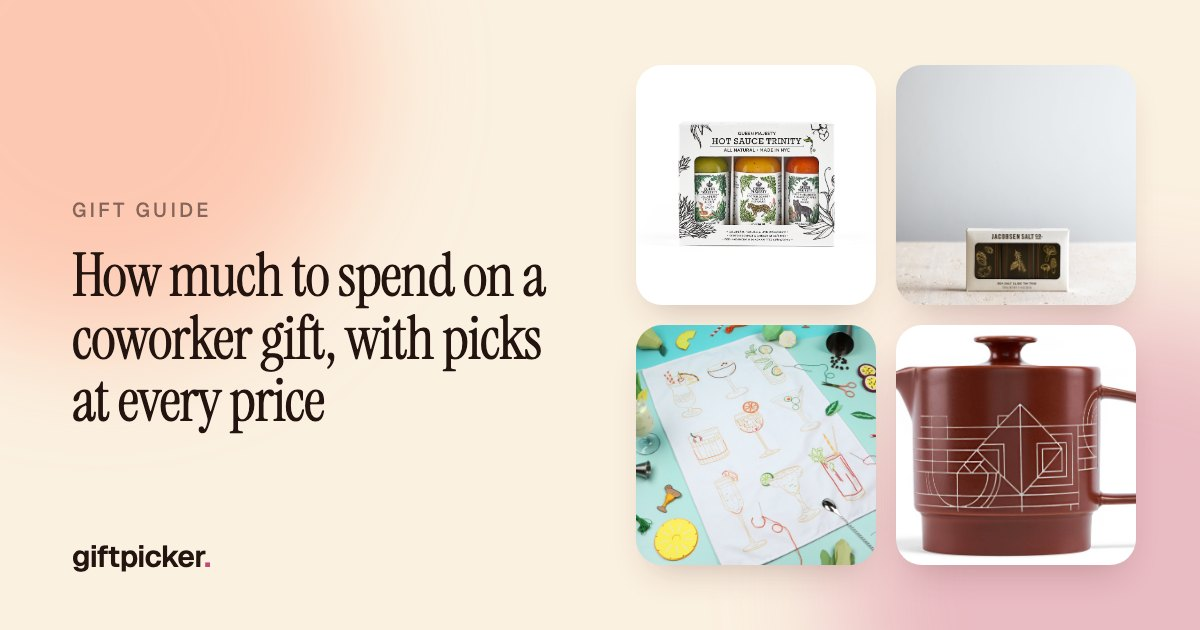
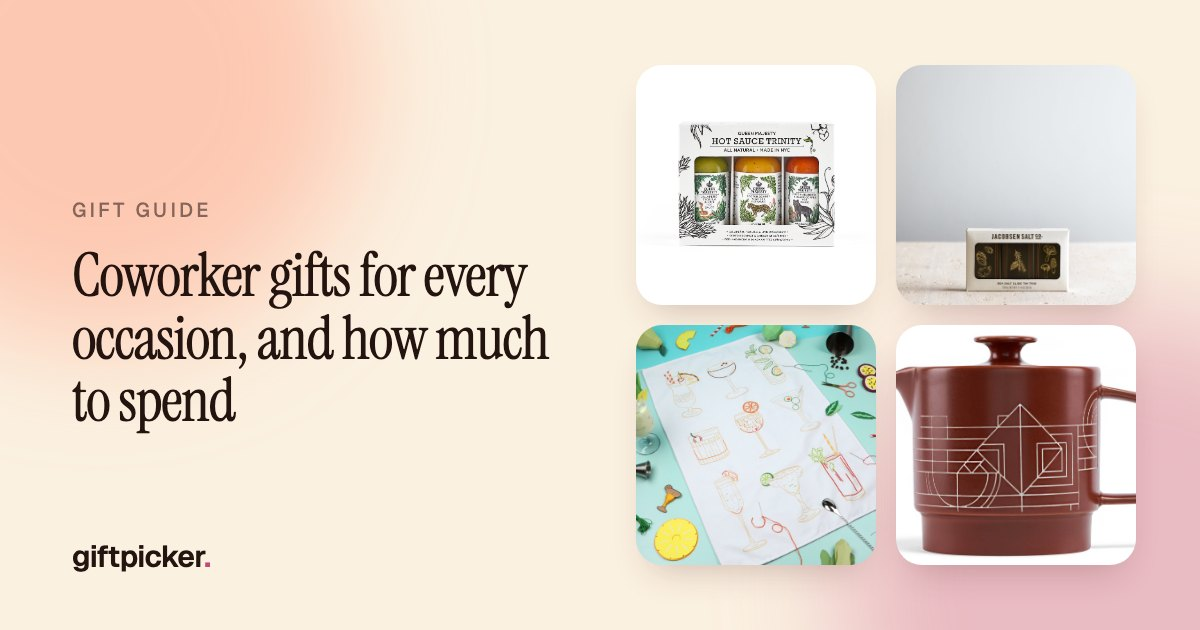
Blog (branch, not shipped): Baby shower gifts for a coworker (from Presently's 18 best baby shower gifts post, by budget, with office shower ideas) and Holiday gifts for kids by age (from Presently's kids' holiday and fall posts); the coworker post folds in Presently's 27 gifts by occasion as an occ

Changed region(s): [[0.0617, 0.3921, 0.4625, 0.6937]]

diff --git a/src/data/posts.ts b/src/data/posts.ts
@@ -88,7 +88,19 @@ export function formatPostDate(iso: string): string {
  * reports these as pending, says when one has gone live (then delete its entry
  * here), and fails if she rejects one, so its sentence can be rewritten.
  */
-export const PENDING_GIFTS: Record<string, { name: string; presentlySource: string }> = {};
+export const PENDING_GIFTS: Record<string, { name: string; presentlySource: string }> = {
+  r1153: { name: "Razor A Kick Scooter", presentlySource: "gap-fill round 10/24 (kids' active)" },
+  r1156: { name: "Penny 22-Inch Board", presentlySource: "gap-fill round 10/24 (kids' active)" },
+  r1159: { name: "Fjällräven Kånken Classic Backpack", presentlySource: "gap-fill round 10/24 (kids' active)" },
+  r1162: { name: "Dog Man: The Supa Epic Collection", presentlySource: "gap-fill round 10/24 (kids' books)" },
+  r1163: { name: "The Wild Robot Hardcover Boxed Set", presentlySource: "gap-fill round 10/24 (kids' books)" },
+  r1164: { name: "Harry Potter and the Sorcerer's Stone: The Illustrated Edition", presentlySource: "gap-fill round 10/24 (kids' books)" },
+  r1167: { name: "Melissa & Doug Countdown to Christmas Wooden Advent Calendar", presentlySource: "gap-fill round 10/24 (kids' seasonal)" },
+  r1168: { name: "Where's Waldo? Advent Calendar", presentlySource: "gap-fill round 10/24 (kids' seasonal)" },
+  r1169: { name: "Super Smalls Hanukkah Activity Set", presentlySource: "gap-fill round 10/24 (kids' seasonal)" },
+  r1170: { name: "Tubelox Deluxe 220-Piece Set", presentlySource: "group-gifts-for-kids-this-holiday-season" },
+  r1171: { name: "Yamaha GigMaker Deluxe Acoustic Guitar Package", presentlySource: "group-gifts-for-kids-this-fall" },
+};
 
 export function isPendingGift(id: string): boolean {
   return Object.prototype.hasOwnProperty.call(PENDING_GIFTS, id);
@@ -155,6 +167,229 @@ export function postGiftIds(post: Post): string[] {
 const REVISED = "2026-10-18";
 
 const ALL_POSTS: Post[] = [
+  {
+    slug: "baby-shower-gifts-for-a-coworker",
+    title: "Baby shower gifts for a coworker, at every budget",
+    metaTitle: "Baby shower gifts for a coworker · GiftPicker",
+    description:
+      "Baby shower gifts for a coworker at every budget, from a small gift from you to a gift from the whole team, plus ideas for planning an office baby shower.",
+    related: ["how-much-to-spend-on-a-coworker-gift", "holiday-gifts-for-kids-by-age", "how-to-choose-a-gift-by-love-language"],
+    published: "2026-10-25",
+    intro: [
+      "A coworker's baby shower is one of the happiest things an office gets to celebrate. The tricky part is choosing a gift that suits a work friendship and that new parents will use, since they are about to be short on sleep, time, and free hands.",
+      "This guide is organized by budget, starting with gifts you can give on your own and ending with bigger ones the whole team can go in on. It works whether you are bringing a gift to the shower or sending a baby gift after the birth, and the last sections cover planning the shower itself.",
+    ],
+    body: [
+      { kind: "h2", text: "How much to spend on a coworker's baby shower gift" },
+      {
+        kind: "p",
+        text: "Check the registry first. Most expecting parents have one, and a registry gift is one you know they want. Ask whoever is hosting the shower for the link, or search the parent's name on Babylist, Amazon, or Target. If you shop off the registry, these ranges keep most offices comfortable:",
+      },
+      {
+        kind: "list",
+        items: [
+          "From you alone: $25 to $50.",
+          "From a few coworkers together: $50 to $150.",
+          "From the whole team: $150 and up, often for one of the bigger registry items nobody wants to buy alone.",
+        ],
+      },
+      {
+        kind: "p",
+        text: "To see which tier your group lands in, multiply: eight coworkers at $15 to $20 each comes to $120 to $160. When you organize a collection, suggest an amount per person, collect it through a payment app or a shared card, and make it clear that any contribution, including none, is welcome.",
+      },
+
+      { kind: "h2", text: "Under $50: a gift from you" },
+      {
+        kind: "p",
+        text: "A small gift is plenty when the parents can use it in the first weeks, or when it starts the baby's bookshelf. If the shower is only days away, choose a pick that ships quickly, or tuck a gift card into a signed card.",
+      },
+      {
+        kind: "p",
+        text: "The [Hello, World! board books](gift:r821) introduce birds, bugs, dinosaurs, and the solar system with bright art and simple first facts, and the [Goodnight Little Me personalized book](gift:r736) puts the baby's name on the cover and throughout a bedtime story. Order the book only if the parents have shared the name, and allow time for printing.",
+      },
+      { kind: "gifts", ids: ["r821", "r736"] },
+      {
+        kind: "p",
+        text: "Sophie la Girafe's [teether](gift:r292) has been a favorite first toy since 1961. She is made from natural rubber, sized for small hands, and squeaks when squeezed. Crate & Kids' [Monthly Milestone Mat](gift:r196) is a cotton canvas backdrop with an adjustable date, made for the month-by-month photos most new parents love to take.",
+      },
+      { kind: "gifts", ids: ["r292", "r196"] },
+
+      { kind: "h2", text: "$50 to $150: a gift from a few coworkers" },
+      {
+        kind: "p",
+        text: "Pooling money with a few colleagues opens up the gear parents rely on every day.",
+      },
+      {
+        kind: "p",
+        text: "Solly Baby's [Wrap Carrier](gift:r554) is a light, stretchy wrap that keeps a newborn close while leaving the parent's hands free. Hatch's [sound machine and night light](gift:r250) plays white noise, glows softly for night feedings, and later works as a time-to-rise clock for toddlers, all controlled from an app. Savor's [Baby Deluxe Keepsake Box](gift:r611) has labeled, acid-free files and drawers for a baby's mementos from birth to age four.",
+      },
+      { kind: "gifts", ids: ["r554", "r250", "r611"] },
+      {
+        kind: "p",
+        text: "Cooking is often the first thing to go with a newborn, so an [Uber Eats gift card](gift:r135) covers takeout on the nights nobody has time to cook. A DoorDash card does the same job.",
+      },
+      { kind: "gifts", ids: ["r135"] },
+
+      { kind: "h2", text: "$150 and up: a gift from the whole team" },
+      {
+        kind: "p",
+        text: "With the whole office chipping in, you can cover one of the bigger items, or something that keeps arriving for months.",
+      },
+      {
+        kind: "p",
+        text: "Coterie's [diaper and wipes gift subscription](gift:r595) sends monthly deliveries for 2 to 12 months, and the parents choose the size when they redeem it. Upon a Box's [Baby Book Library](gift:r39) is a set of classic and bestselling board books to read together from the first weeks. Lovevery's [Play Gym](gift:r237) is an activity gym and play mat designed by child development experts for tummy time and the whole first year. Indi's [diaper backpack](gift:r147) looks like an everyday backpack and holds everything a parent needs to leave the house with a baby.",
+      },
+      { kind: "gifts", ids: ["r595", "r39", "r237", "r147"] },
+      {
+        kind: "p",
+        text: "New parents rarely get time to themselves, so a gift just for them is welcome too. A Spafinder gift card works at spas across the country and gives the parent-to-be a few hours off, now or after the baby arrives. If the team knows them well, RENPHO's [shiatsu foot massager](gift:r372) gives tired feet a deep-kneading massage with heat, without leaving the couch.",
+      },
+      { kind: "gifts", ids: ["r372"] },
+
+      { kind: "h2", text: "Office baby shower ideas" },
+      {
+        kind: "list",
+        items: [
+          "Ask the parent-to-be first. Some people would rather not have a party at work, and a card and a group gift are a good alternative.",
+          "Pick a time a few weeks before their leave starts, when they still feel up for a party. Lunch or an afternoon break in a conference room works well.",
+          "Keep it short. Half an hour with cake and a card is plenty for most people.",
+          "Pass a card around, and invite remote teammates to sign a digital card or join by video.",
+          "Choose one group gift. A single present from everyone is easier to carry home than a pile of small ones.",
+          "Plan for after the baby arrives. A meal delivery gift card, or a meal train the team signs up for, is often the most welcome help in the first weeks at home.",
+        ],
+      },
+
+      { kind: "h2", text: "Giving in the baby's honor" },
+      {
+        kind: "p",
+        text: "If the parents would rather not receive more things, the team can donate in the baby's honor instead. A [TisBest Charity Gift Card](gift:r769) lets the parents give to any of about 1.8 million US charities, including March of Dimes and Every Mother Counts, which work for healthy pregnancies and safe births. Send it with a card the whole team signs.",
+      },
+      { kind: "gifts", ids: ["r769"] },
+    ],
+    cta: "Shopping for a different coworker or occasion? Tell the quiz who it's for and your budget, and it will rank gifts from our catalog.",
+  },
+
+  {
+    slug: "holiday-gifts-for-kids-by-age",
+    title: "Holiday gifts for kids, from toddlers to teens",
+    metaTitle: "Holiday gifts for kids by age · GiftPicker",
+    description:
+      "Holiday gifts for kids from toddlers to teens, sorted by age: toys, books, craft kits, games, and gear they keep using. Most work for fall birthdays too.",
+    related: ["gifts-for-your-brother-or-sister", "baby-shower-gifts-for-a-coworker", "how-to-choose-a-gift-by-love-language"],
+    published: "2026-10-25",
+    intro: [
+      "The best gifts for kids hold their attention well past the morning they open them. That means something different at every age, from a toy a toddler can push and bang on to a project a ten-year-old can finish on their own.",
+      "This guide is sorted by age, and we chose each pick for how well it fits that age and how long it holds up. Most work just as well for a fall birthday, and the bigger ones make good group gifts when a few relatives want to chip in.",
+    ],
+    body: [
+      { kind: "h2", text: "How to choose a gift for a child" },
+      {
+        kind: "list",
+        items: [
+          "Go by the age on the box. Age ratings help, since a gift that is too advanced often goes unused.",
+          "Ask the parents about space and noise. A drum set or a play kitchen is a big commitment in a small apartment.",
+          "Look for gifts that last: building sets, craft kits, and books with sequels keep kids busy for weeks.",
+          "For a bigger gift, pool money with grandparents, aunts, uncles, or family friends, so one well-made gift can replace several small ones.",
+          "Twins and close siblings can share a big gift like a building set, but each will want something of their own to open too.",
+          "Order by early December. Popular toys sell out, and deliveries slow down in the last weeks before the holidays.",
+        ],
+      },
+
+      { kind: "h2", text: "Babies and toddlers, 6 months to 3 years" },
+      {
+        kind: "p",
+        text: "Little ones learn with their hands and bodies, so look for toys they can climb, push, and bang on.",
+      },
+      {
+        kind: "p",
+        text: "Lovevery's [Play Kits](gift:r550) are boxes of toys made for a child's exact stage. You can prepay one to three kits, and each one is matched to the child's age when the parents activate it, so new toys arrive as the child grows.",
+      },
+      {
+        kind: "p",
+        text: "Hape's [Pound & Tap Bench](gift:r824) sends balls rolling over xylophone keys when a toddler hammers them through, and the xylophone slides out to play on its own. HABA's [First Orchard](gift:r716) is a first board game for ages 2 and up, where everyone works together to pick the chunky wooden fruit before the raven arrives.",
+      },
+      { kind: "gifts", ids: ["r550", "r824", "r716"] },
+
+      { kind: "h2", text: "Ages 3 to 5" },
+      {
+        kind: "p",
+        text: "Preschoolers love to pretend and to build, and a gift that does either gets plenty of use.",
+      },
+      {
+        kind: "p",
+        text: "Melissa & Doug's [Scoop and Serve Ice Cream Counter](gift:r907) comes with eight scoops, toppings, cones, and play money, and the counter stores every piece afterward. A [Magna-Tiles Classic 32-Piece Set](gift:r551) snaps together into towers, houses, and ramps, and its translucent tiles let the light through. For quiet time, the [Toniebox 2](gift:r549) plays songs and stories when a child sets a character figure on top, with no screen, and it comes with one figure to start.",
+      },
+      { kind: "gifts", ids: ["r907", "r551", "r549"] },
+
+      { kind: "h2", text: "Ages 6 to 8" },
+      {
+        kind: "p",
+        text: "Kids this age can follow instructions on their own, which opens up building kits, board games, and scooters.",
+      },
+      {
+        kind: "p",
+        text: "Tubelox's [Deluxe 220-Piece Set](gift:r1170) is a box of big plastic tubes and connectors that kids snap together into vehicles and forts large enough to sit in. It is a good one for grandparents and other relatives to go in on together. Elenco's [Snap Circuits Beginner kit](gift:r717), for ages 5 to 9, builds more than 20 working circuits, including a spinning fan, lights, and sounds, from picture-based instructions. Makedo's [cardboard construction kit](gift:r795), for ages 5 and up, comes with kid-safe saws and 120 reusable screws that turn delivery boxes into forts, costumes, and cars.",
+      },
+      { kind: "gifts", ids: ["r1170", "r717", "r795"] },
+      {
+        kind: "p",
+        text: "For family game night, [Ticket to Ride: First Journey](gift:r784) is the kids' version of the classic train game for ages 6 and up, and a round takes 15 to 30 minutes. The [Dog Man box set](gift:r1162) collects the first six of Dav Pilkey's graphic novels, which are popular with kids who don't usually pick up a book. And to get them outside, Razor's [A Kick Scooter](gift:r1153) folds flat to carry and suits riders 5 and up (add a helmet if they don't have one).",
+      },
+      { kind: "gifts", ids: ["r784", "r1162", "r1153"] },
+
+      { kind: "h2", text: "Ages 9 to 12" },
+      {
+        kind: "p",
+        text: "Older kids are ready for real tools, longer books, and projects that take an afternoon.",
+      },
+      {
+        kind: "p",
+        text: "National Geographic's [Kids' Pottery Wheel Kit](gift:r798), for ages 8 and up, is a plug-in wheel with air-dry clay, sculpting tools, and paints, so kids can shape small cups and bowls and paint them once they dry, with no kiln. Thames & Kosmos's [Chem C1000](gift:r725), for ages 10 and up, guides 125 experiments, from invisible ink to splitting water into hydrogen and oxygen. Sphero's [Mini coding robot](gift:r787), for ages 8 and up, is the size of a ping-pong ball, and kids drive it from a phone or tablet and learn to program it with the free app.",
+      },
+      { kind: "gifts", ids: ["r798", "r725", "r787"] },
+      {
+        kind: "p",
+        text: "For readers, [The Wild Robot boxed set](gift:r1163) holds all three books about a robot who learns to survive on a wild island, and the [illustrated edition of Harry Potter and the Sorcerer's Stone](gift:r1164) has more than 100 full-color pictures by Jim Kay. Camp Snap's [screen-free camera](gift:r454) has six built-in film-style filters, and the photos stay a surprise until they're downloaded to a computer.",
+      },
+      { kind: "gifts", ids: ["r1163", "r1164", "r454"] },
+
+      { kind: "h2", text: "Teens" },
+      {
+        kind: "p",
+        text: "Teenagers can be hard to shop for, so start with a hobby they already have or a skill they want to learn. If you aren't sure what that is, a quick question to a parent saves a guess.",
+      },
+      {
+        kind: "p",
+        text: "Fujifilm's [Instax Mini 13](gift:r148) prints credit-card-size photos in about five seconds, the kind that end up taped to a mirror or a locker. For a teen who wants to learn guitar, Yamaha's [GigMaker Deluxe pack](gift:r1171) comes with a full-size acoustic guitar, a gig bag, a clip-on tuner, a strap, and picks. If they already play electric, Positive Grid's [Spark GO](gift:r756) is a palm-size practice amp whose app shows the chords to the songs they want to learn.",
+      },
+      { kind: "gifts", ids: ["r148", "r1171", "r756"] },
+      {
+        kind: "p",
+        text: "Penny's original [22-inch board](gift:r1156) is a plastic cruiser small enough to fit in a backpack (a helmet makes a good add-on). Fjällräven designed the [Kånken backpack](gift:r1159) for schoolchildren in 1978, and it comes in 38 colors. And for a group of friends, the [Dungeons & Dragons Starter Set](gift:r856) is made so first-timers can start playing the same night.",
+      },
+      { kind: "gifts", ids: ["r1156", "r1159", "r856"] },
+
+      { kind: "h2", text: "Advent calendars and Hanukkah gifts" },
+      {
+        kind: "p",
+        text: "A countdown gift stretches the excitement across December. LEGO's [City Advent Calendar](gift:r802) hides 24 small builds behind numbered doors, and the box folds out into Santa's workshop. Melissa & Doug's [wooden advent calendar](gift:r1167) is a tree with 24 magnetic ornaments that comes out again every year, and the [Where's Waldo? Advent Calendar](gift:r1168) holds a tiny search-and-find book for each day.",
+      },
+      {
+        kind: "p",
+        text: "For Hanukkah, Super Smalls' [activity set](gift:r1169) lets kids paint their own ceramic menorah, which holds real candles once it's finished, and comes with a booklet of trivia and jokes for the eight nights.",
+      },
+      { kind: "gifts", ids: ["r802", "r1167", "r1168", "r1169"] },
+
+      { kind: "h2", text: "Gifts that support a charity" },
+      {
+        kind: "p",
+        text: "World Wildlife Fund's [polar bear adoption kit](gift:r812) funds conservation work and comes with a plush polar bear and an adoption certificate. You can also let a child pick a charity to donate to with you, such as Make-A-Wish, which grants wishes to children with critical illnesses, or a toy drive in your town.",
+      },
+      { kind: "gifts", ids: ["r812"] },
+    ],
+    cta: "Shopping for one child in particular? Tell the quiz their age, what they're into, and your budget, and it will rank gifts from our catalog.",
+  },
+
   {
     slug: "how-to-choose-a-gift-by-love-language",
     title: "How to choose a gift by love language",
@@ -353,16 +588,16 @@ const ALL_POSTS: Post[] = [
 
   {
     slug: "how-much-to-spend-on-a-coworker-gift",
-    title: "How much to spend on a coworker gift, with picks at every price",
+    title: "Coworker gifts for every occasion, and how much to spend",
     description:
-      "Budget guidance for coworker gifts from you or the whole team, with picks for birthdays, promotions, weddings, new babies, farewells, and hard times.",
-    metaTitle: "How much to spend on a coworker gift · GiftPicker",
+      "Coworker gift ideas by occasion and budget, from a small birthday treat to a team gift for a wedding, new baby, promotion, farewell, or a hard time.",
+    metaTitle: "Coworker gifts by occasion and budget · GiftPicker",
     related: ["what-to-send-someone-who-is-sick-or-grieving", "gifts-for-men-who-say-they-dont-need-anything", "how-to-choose-a-gift-by-love-language"],
     published: "2026-08-05",
-    updated: "2026-10-19",
+    updated: "2026-10-25",
     intro: [
-      "Most workplace gift questions depend on who the gift is from and how big the moment is. A birthday treat from the person at the next desk calls for something different from a farewell collection taken up by a whole department, and the budget follows from there.",
-      "This guide is organized by price. Each tier lists the occasions it usually fits, along with gifts from our catalog that suit a work relationship, meaning friendly and thoughtful without being too personal.",
+      "Most workplace gift questions depend on who the gift is from and how big the moment is. A birthday treat from the person at the next desk calls for something different from a farewell collection taken up by a whole department.",
+      "This guide starts with quick ideas by occasion, then goes through each price tier with gifts from our catalog that suit a work relationship, meaning friendly and thoughtful without being too personal.",
     ],
     body: [
       { kind: "h2", text: "How much should you spend on a coworker gift?" },
@@ -372,13 +607,26 @@ const ALL_POSTS: Post[] = [
         items: [
           "From you alone, for a birthday or a thank-you: under $25.",
           "From you alone, for a close work friend or a bigger milestone like a promotion: $25 to $60.",
-          "From a small group: $60 to $150, which works out to a modest amount per person.",
+          "From a small group: $60 to $150, which is about $10 to $20 each for six to eight people.",
           "From the whole team, for a retirement, a long-time colleague's last day, a wedding, or a new baby: $150 and up.",
         ],
       },
       {
         kind: "p",
-        text: "When you organize a collection, suggest an amount per person and make it clear that any contribution, including none, is welcome. Most teams include people on very different salaries, and nobody should feel watched. Gifts for a manager are also more comfortable as group gifts, since a solo gift sent upward can look like a bid for favor.",
+        text: "A big team needs only a small amount from each person: 25 people at $5 to $10 each raises $125 to $250. When you organize a collection, suggest an amount per person and make it clear that any contribution, including none, is welcome. Most teams include people on very different salaries, and nobody should feel watched. Gifts for a manager are also more comfortable as group gifts, since a solo gift sent upward can look like a bid for favor.",
+      },
+
+      { kind: "h2", text: "Coworker gift ideas by occasion" },
+      {
+        kind: "list",
+        items: [
+          "Birthday: from you, a small treat like Queen Majesty's [Hot Sauce Trinity](gift:r418) (under $25); for a milestone birthday, Sony's [noise-canceling headphones](gift:r596) from the whole team ($150 and up).",
+          "New baby: our guide to [baby shower gifts for a coworker](/blog/baby-shower-gifts-for-a-coworker) has picks at every budget, and Coterie's [diaper subscription](gift:r595) works well as a team gift ($150 and up).",
+          "Wedding: a gift card toward their registry, Away's [Carry-On](gift:r571) for the honeymoon, or, for a couple who enjoys wine, SommSelect's [wine club](gift:r1092) (both $150 and up, from a group).",
+          "Promotion or work anniversary: from you, a [Candlelight concert gift card](gift:r700) ($25 to $60); from a group, a year of [MasterClass](gift:r362) or Smythson's [Panama weekly journal](gift:r662) ($60 to $150).",
+          "Farewell or retirement: from a group, Fujifilm's [smartphone photo printer](gift:r274) for the send-off, or a [ResortPass gift card](gift:r1005) for a day off between jobs ($60 to $150).",
+          "Illness or loss: Spoonful of Comfort's [care package](gift:r600) or Loved and Found's [Serenity Gift Box](gift:r263), from a group ($60 to $150).",
+        ],
       },
 
       { kind: "h2", text: "Under $25: a birthday or a thank-you from you" },
@@ -406,7 +654,7 @@ const ALL_POSTS: Post[] = [
       { kind: "h2", text: "$60 to $150: when a few people chip in" },
       {
         kind: "p",
-        text: "Pooling a few contributions opens up gifts with real staying power, and this is the range where most team gifts land.",
+        text: "Pooling a few contributions opens up gifts that last, and this is where most small-group gifts land.",
       },
       {
         kind: "p",
@@ -432,6 +680,11 @@ const ALL_POSTS: Post[] = [
         text: "When a colleague is going through a hard time, send a care package. Spoonful of Comfort's [care package](gift:r600) brings two quarts of soup, six rolls, six cookies, a keepsake ladle, and a card with your message, and the [Serenity Gift Box](gift:r263) from Loved and Found gathers natural spa products for a slow evening at home. For a coworker who has lost someone, [It's OK That You're Not OK](gift:r772) by psychotherapist Megan Devine speaks to grieving people directly, with practical help for the hardest weeks.",
       },
       { kind: "gifts", ids: ["r600", "r263", "r772"] },
+      {
+        kind: "p",
+        text: "For a close colleague, a year of [Calm](gift:r601) adds guided meditations and sleep stories.",
+      },
+      { kind: "gifts", ids: ["r601"] },
 
       { kind: "h2", text: "$150 and up: a gift from the whole team" },
       {
@@ -455,7 +708,7 @@ const ALL_POSTS: Post[] = [
       { kind: "gifts", ids: ["r596", "r598", "r369"] },
       {
         kind: "p",
-        text: "If the team can't settle on an object, cash in a card signed by everyone is always welcome, especially at a farewell, and an Amazon gift card works almost as well. If they would rather do some good, a [TisBest Charity Gift Card](gift:r769) lets the recipient give the money to any of about 1.8 million US charities.",
+        text: "If the team can't settle on an object, cash tucked into a card signed by everyone is always welcome, especially at a farewell, and an Amazon gift card works almost as well. If they would rather do some good, a [TisBest Charity Gift Card](gift:r769) lets the recipient give the money to any of about 1.8 million US charities.",
       },
       { kind: "gifts", ids: ["r769"] },
 
@@ -467,6 +720,7 @@ const ALL_POSTS: Post[] = [
           "Ask about food before you send it. A quick question to a teammate about dietary restrictions avoids a box of treats nobody can eat.",
           "Check before giving alcohol. Some people don't drink, and some workplaces have rules about it.",
           "Pass a card around. A short note from each person often means as much as the gift, especially at a farewell.",
+          "When several occasions fall in the same month, give each a similar budget and collect separately for each, so nobody feels one person mattered more.",
           "When a colleague is ill or grieving, our guide to [what to send someone who is sick, recovering, or grieving](/blog/what-to-send-someone-who-is-sick-or-grieving) has more ideas.",
         ],
       },
